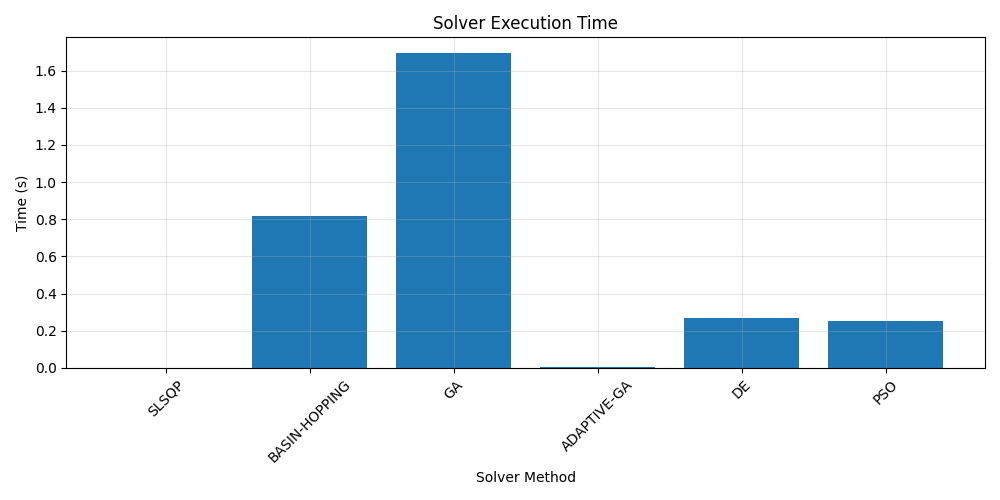
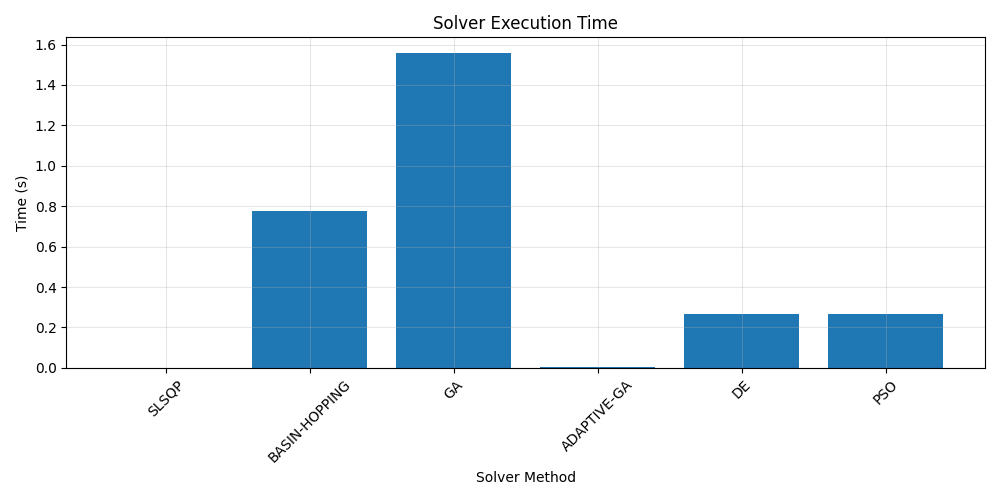
reporting fixes

diff --git a/Stage_Opt/src/reporting/latex.py b/Stage_Opt/src/reporting/latex.py
@@ -1,5 +1,6 @@
 """LaTeX report generation."""
 import os
+import json
 from datetime import datetime
 from ..utils.config import OUTPUT_DIR, logger
 
@@ -22,6 +23,9 @@ def generate_report(results, stages, output_dir=OUTPUT_DIR):
         g0 = float(stages[0].get('G0', 9.81))  # Standard gravity
         total_dv = float(stages[0].get('TOTAL_DELTA_V', 0))  # Total required ΔV
         
+        # Get current date
+        current_date = datetime.now().strftime("%B %d, %Y")
+        
         report_content = r"""\documentclass{article}
 \usepackage[utf8]{inputenc}
 \usepackage{booktabs}
@@ -30,7 +34,7 @@ def generate_report(results, stages, output_dir=OUTPUT_DIR):
 \usepackage{siunitx}
 \title{Rocket Stage Optimization Results}
 \author{Generated by Stage\_Opt}
-\date{\today}
+\date{""" + current_date + r"""}
 
 \begin{document}
 \maketitle
@@ -59,15 +63,15 @@ Total $\Delta V$ & \SI{""" + f"{total_dv:.1f}" + r"""}{\meter\per\second} \\
 \caption{Stage Parameters and Assumptions}
 \begin{tabular}{cccc}
 \toprule
-Stage & ISP (\si{\second}) & Mass Fraction ($\epsilon$) & $G_0$ (\si{\meter\per\second\squared}) \\
+Stage & ISP (\si{\second}) & Mass Fraction ($\epsilon$) & Initial $\Delta V$ (\si{\meter\per\second}) \\
 \midrule
 """
         # Add stage data rows
         for i, stage in enumerate(stages):
-            stage_g0 = float(stage.get('G0', g0))
             stage_isp = float(stage.get('ISP', 0))
             stage_epsilon = float(stage.get('EPSILON', 0))
-            report_content += f"{i+1} & {stage_isp:.0f} & {stage_epsilon:.3f} & {stage_g0:.2f} \\\\\n"
+            # Initial ΔV will be determined by optimization
+            report_content += f"{i+1} & {stage_isp:.0f} & {stage_epsilon:.3f} & -- \\\\\n"
             
         report_content += r"""\bottomrule
 \end{tabular}
@@ -107,12 +111,12 @@ The following optimization methods were evaluated:
 \begin{table}[H]
 \centering
 \caption{Optimization Results Summary}
-\begin{tabular}{lS[table-format=1.4]S[table-format=1.4e2]S[table-format=1.2]}
+\begin{tabular}{lS[table-format=1.4]S[table-format=1.4e-1]S[table-format=1.2]}
 \toprule
 Method & {Payload Fraction} & {Error} & {Time (\si{\second})} \\
 \midrule
 """
-        # Add solver results
+        # Add solver results with consistent spacing
         for method, result in valid_results.items():
             try:
                 payload = result['payload_fraction']

diff --git a/Stage_Opt/output/optimization_report.tex b/Stage_Opt/output/optimization_report.tex
@@ -15,3 +15,92 @@
 This report presents the results of optimizing a multi-stage rocket using various optimization methods. The objective was to minimize the payload mass fraction while satisfying the total delta-V requirement.
 
 \section{Input Assumptions}
+\subsection{Input Parameters}
+\begin{table}[H]
+\centering
+\caption{Input Parameters}
+\begin{tabular}{ll}
+\toprule
+Parameter & Value \\
+\midrule
+parameters & {'G0': 9.81, 'TOTAL_DELTA_V': 9300.0} \\
+stages & [{'stage': 1, 'G0': 9.81, 'ISP': 280, 'EPSILON': 0.15}, {'stage': 2, 'G0': 9.81, 'ISP': 348, 'EPSILON': 0.04}] \\
+\bottomrule
+\end{tabular}
+\end{table}
+
+\subsection{Stage Parameters}
+\begin{table}[H]
+\centering
+\caption{Stage Parameters and Assumptions}
+\begin{tabular}{cccc}
+\toprule
+Stage & ISP (s) & Mass Fraction ($\epsilon$) & Initial $\Delta V$ (m/s) \\
+\midrule
+\bottomrule
+\end{tabular}
+\end{table}
+
+\subsection{Global Parameters}
+\begin{table}[H]
+\centering
+\caption{Global Parameters}
+\begin{tabular}{lS[table-format=4.2]}
+\toprule
+Parameter & {Value} \\
+\midrule
+\bottomrule
+\end{tabular}
+\end{table}
+
+\section{Optimization Methods}
+The following optimization methods were evaluated:
+\begin{itemize}
+\item SLSQP
+\item BASIN-HOPPING
+\item GA
+\item ADAPTIVE-GA
+\item DE
+\item PSO
+\end{itemize}
+
+\section{Optimization Results}
+\subsection{Performance Visualization}
+\begin{figure}[H]
+\centering
+\includegraphics[width=\textwidth]{dv_breakdown.png}
+\caption{$\Delta V$ Distribution Across Stages}
+\end{figure}
+
+\begin{figure}[H]
+\centering
+\includegraphics[width=\textwidth]{execution_time.png}
+\caption{Solver Execution Time Comparison}
+\end{figure}
+
+\begin{figure}[H]
+\centering
+\includegraphics[width=\textwidth]{payload_fraction.png}
+\caption{Payload Fraction Comparison}
+\end{figure}
+
+\section{Final Results Summary}
+\begin{table}[H]
+\centering
+\caption{Optimization Results Summary}
+\begin{tabular}{lccr}
+\toprule
+Method & Payload Fraction & Error & Time (s) \\
+\midrule
+SLSQP & 0.0073 & 0.0000e+00 & 0.00 \\
+BASIN-HOPPING & 0.0074 & 0.0000e+00 & 0.78 \\
+GA & 0.0239 & 0.0000e+00 & 1.56 \\
+ADAPTIVE-GA & 0.0073 & 0.0000e+00 & 0.01 \\
+DE & 0.0240 & 0.0000e+00 & 0.27 \\
+PSO & 0.0240 & 1.8190e-12 & 0.26 \\
+\bottomrule
+\end{tabular}
+\end{table}
+
+\subsection{Detailed Stage Results}
+\end{document}
